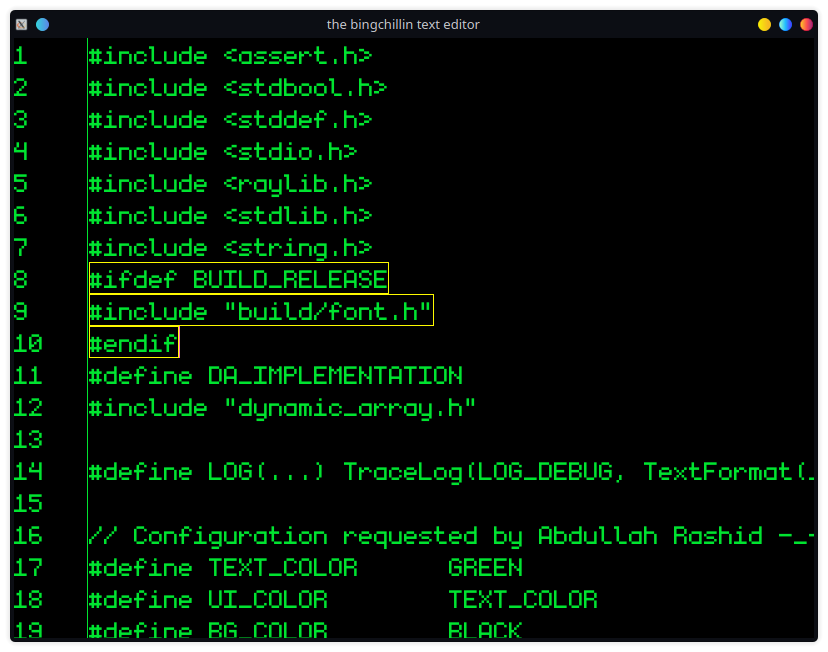
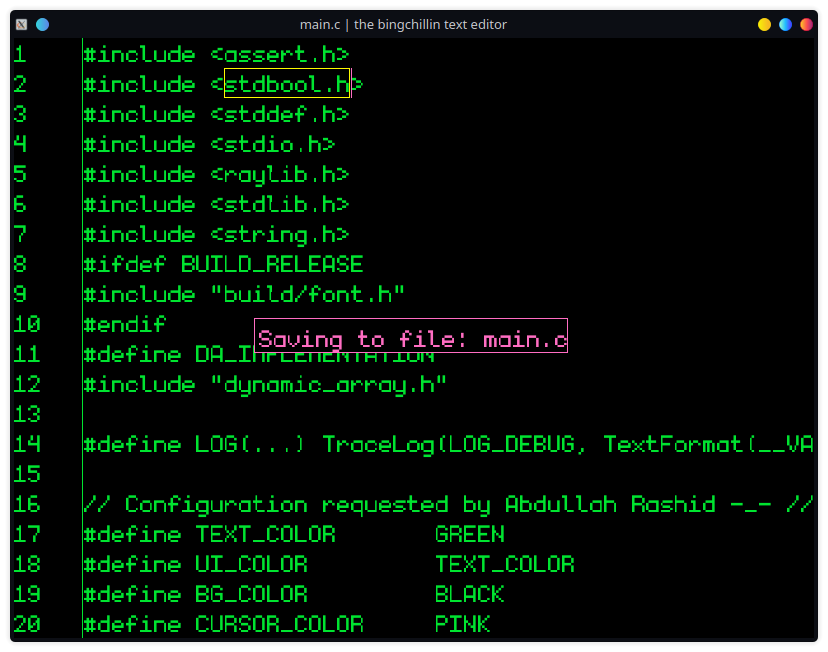
Updated screenshot - saving file notification

Changed region(s): [[0.0906, 0.0307, 0.9964, 0.9816], [0.0, 0.092, 0.0604, 0.9816], [0.3623, 0.7055, 0.3925, 0.7362]]

diff --git a/main.c b/main.c
@@ -855,8 +855,8 @@ void draw(Editor *e)
             };
             // render blank box
             const int padding = 5;
-            DrawRectangle(textPos.x-padding, textPos.y-padding, textW+padding, textH+padding, BG_COLOR);
-            DrawRectangleLines(textPos.x-padding, textPos.y-padding, textW+padding, textH+padding, CURSOR_COLOR);
+            DrawRectangle(textPos.x-padding, textPos.y-padding, textW+(padding*2), textH+(padding*2), BG_COLOR);
+            DrawRectangleLines(textPos.x-padding, textPos.y-padding, textW+(padding*2), textH+(padding*2), CURSOR_COLOR);
             // render notification message
             editor_draw_text(e, e->notif.items, textPos, CURSOR_COLOR);
         }
